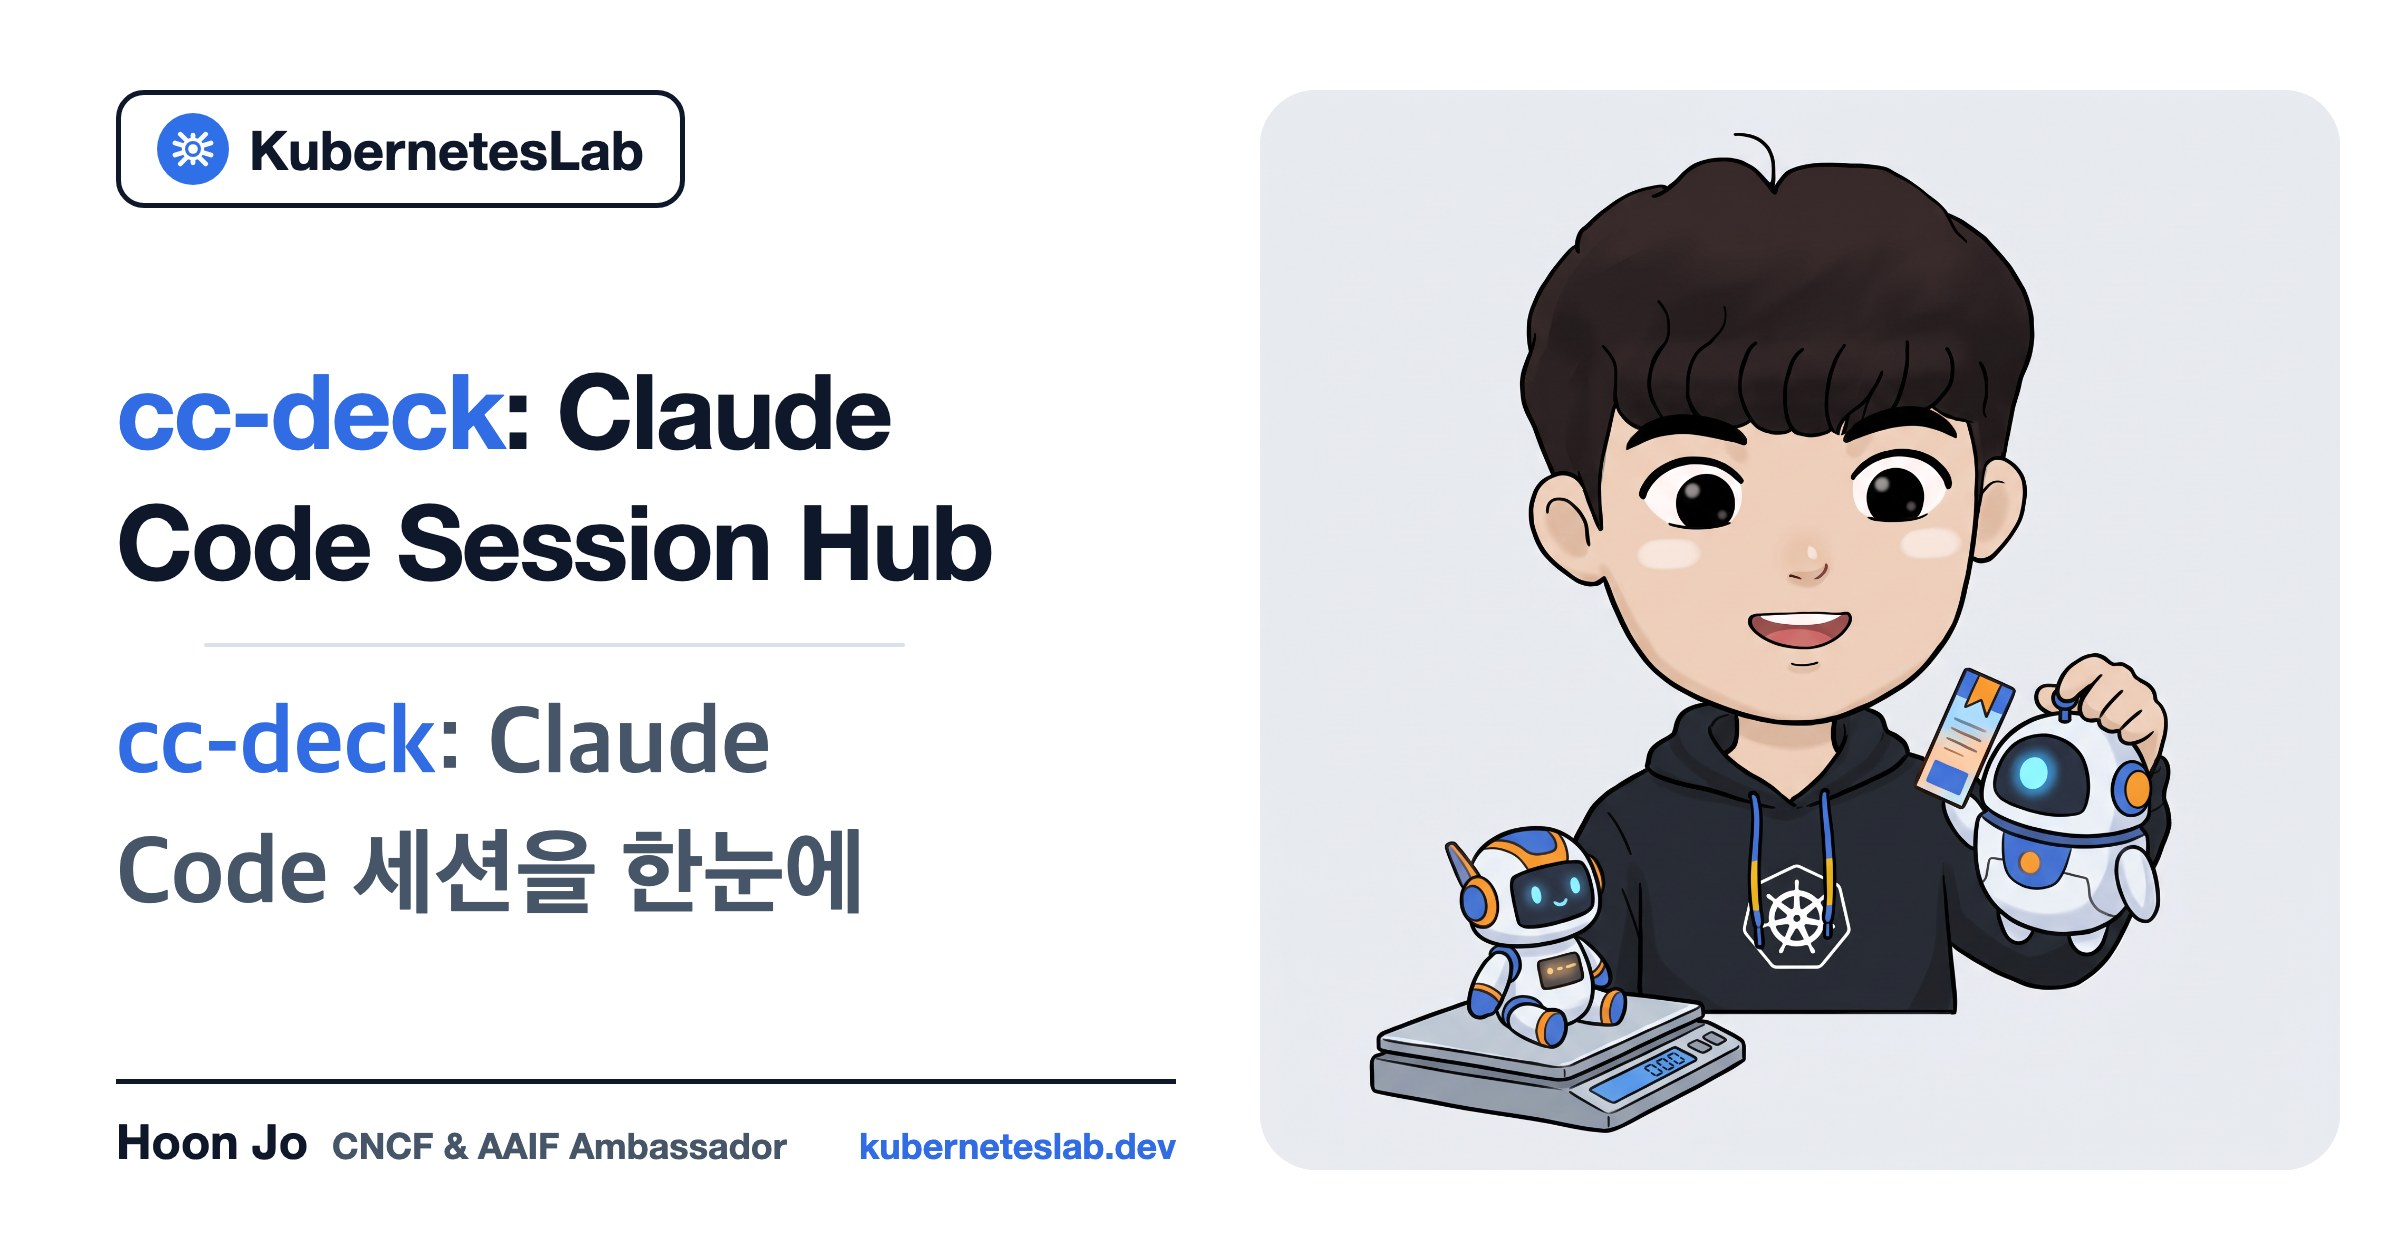
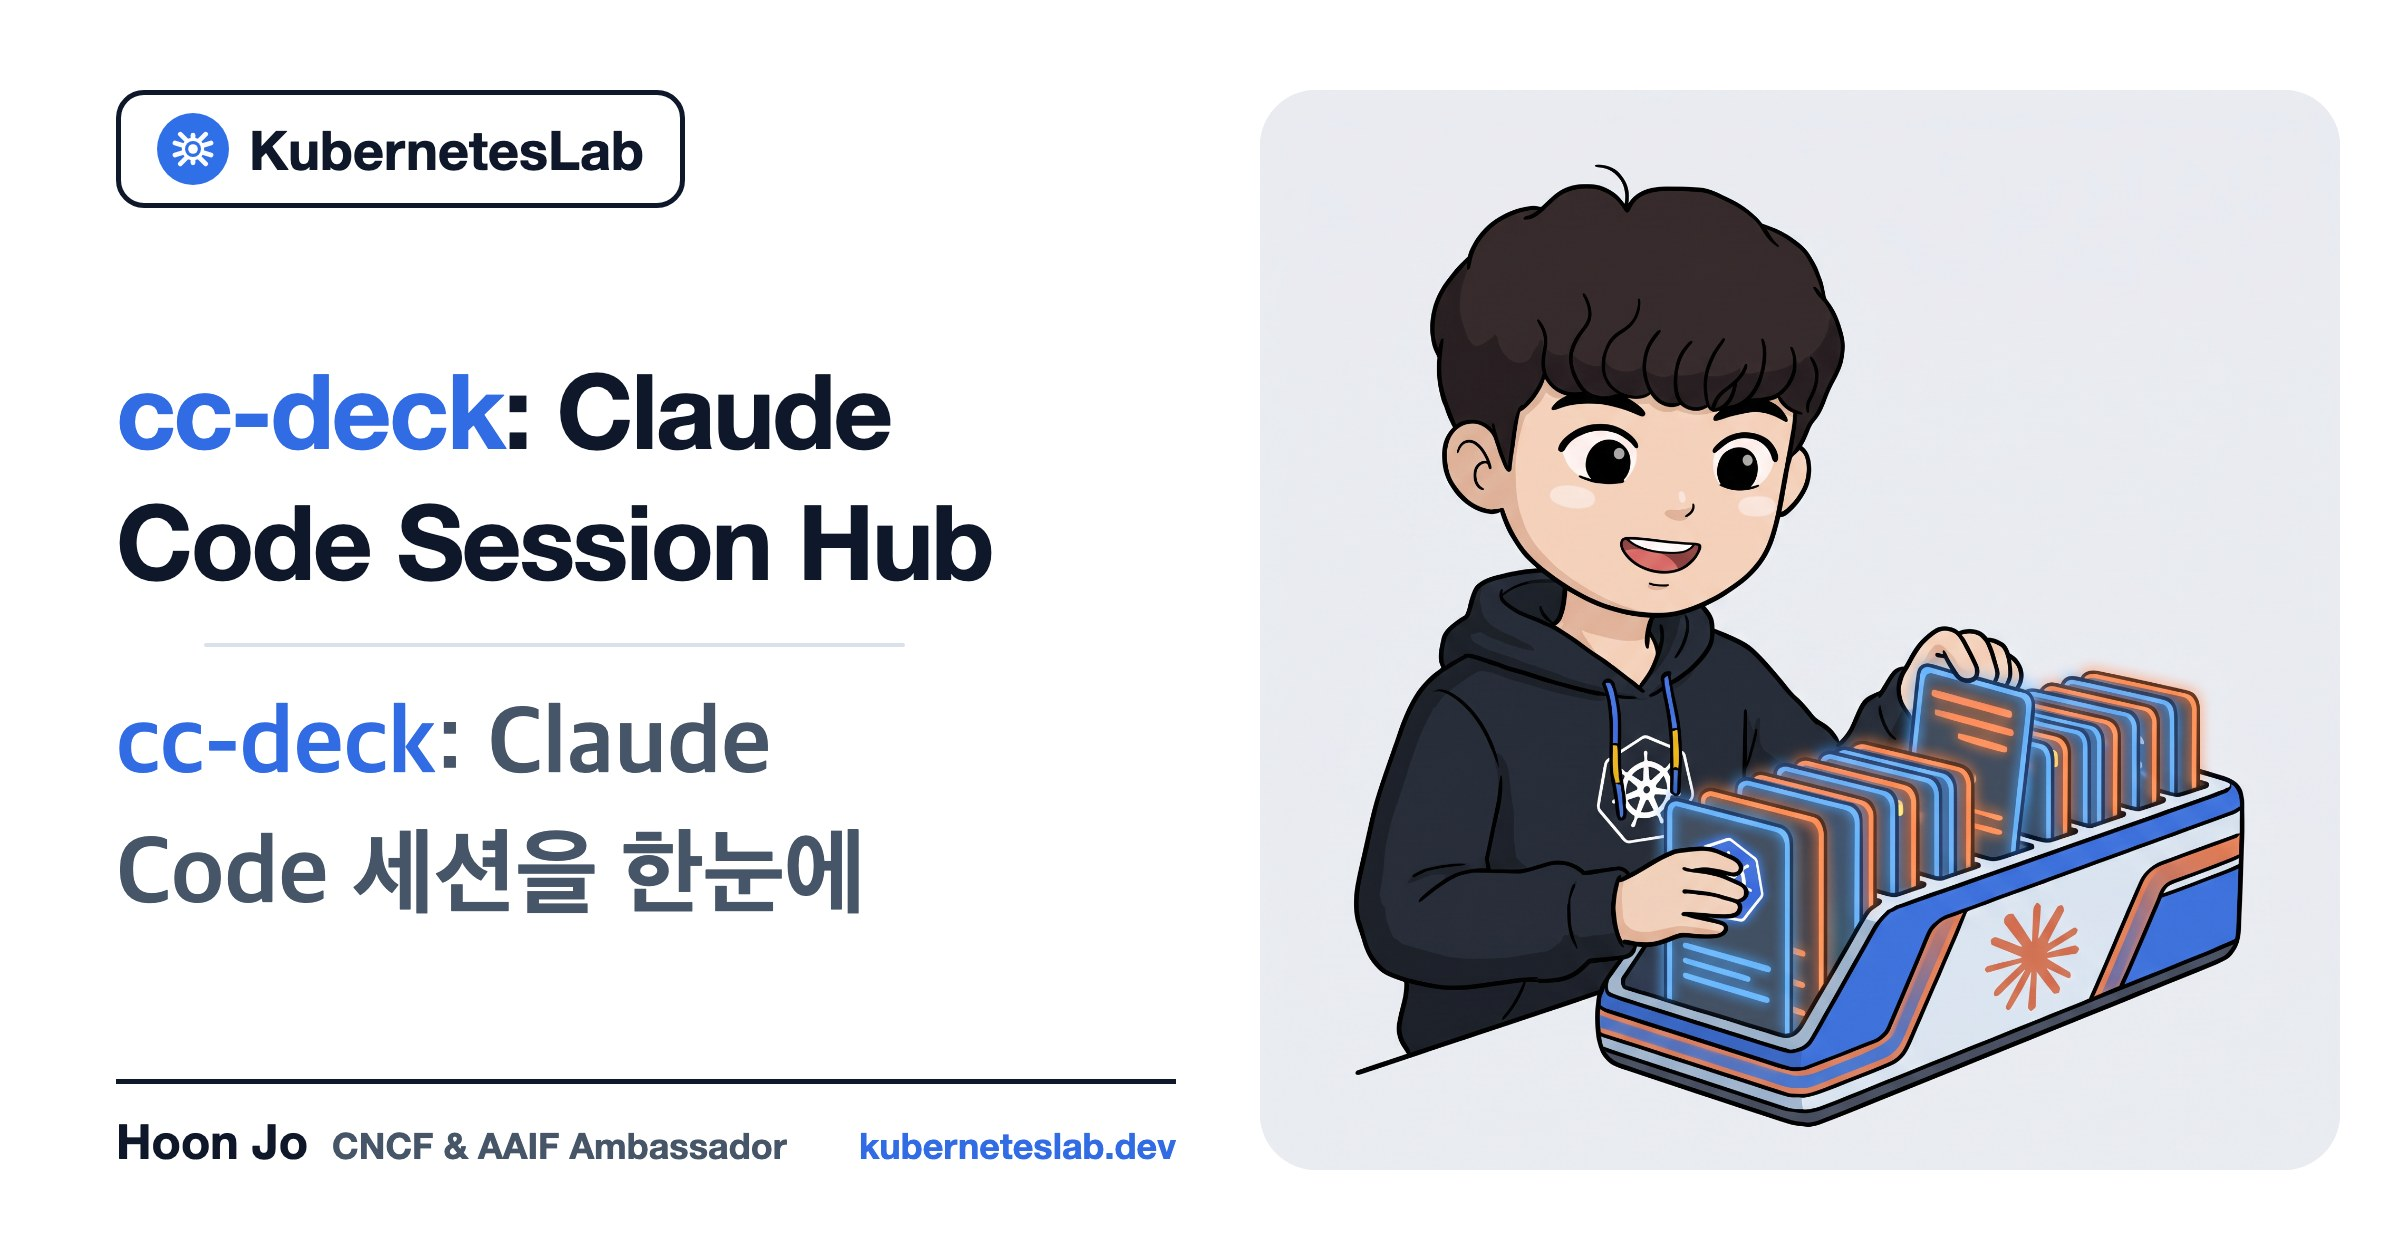
og:image: 블로그 글 16편의 캐릭터 미리보기 그림 교체와 추가
글마다 기술 로고를 소품에 넣고 제목이 말하는 관계가 보이게 다시 그렸다.
기존 7편은 그림을 바꾸고 9편은 새로 넣었다. aiops-agent-benchmark 는
결과 차트 대신 이 그림을 og:image 로 사용한다.

Changed region(s): [[0.5625, 0.1238, 0.9375, 0.8976]]

diff --git a/content/ko/blog/agent-router-mcp-gateway.md b/content/ko/blog/agent-router-mcp-gateway.md
@@ -8,6 +8,10 @@ description: "Agent Router v1.1.0을 쿠버네티스에 올려 MCP 서버 앞에
 summary: "도구 이름만이 아니라 호출할 때 넘긴 값까지 보고 허용 여부를 정할 수 있습니다. 대신 기본 배포에서는 응답이 20ms 가까이 늦어지고 처리량이 초당 100건 근처에서 더 늘지 않는데, 세션 ID를 푸는 반복 횟수 설정 1개가 그 비용의 주인이었습니다. 그리고 문서 예시 그대로 적으면 tools/list가 비어서 에이전트가 도구를 찾지 못하니 CEL을 has()로 감싸면 피할 수 있습니다."
 ShowToc: true
 TocOpen: true
+cover:
+    image: "/images/og/agent-router-mcp-gateway.jpg"
+    alt: "Agent Router로 MCP 서버를 묶으면 무엇이 달라질까요?"
+    hidden: true
 ---
 
 MCP 서버를 늘려 가다 보면 클라이언트 설정이 서버 수만큼 늘어나고 누가 어떤

diff --git a/content/en/blog/agent-router-mcp-gateway.md b/content/en/blog/agent-router-mcp-gateway.md
@@ -8,6 +8,10 @@ description: "Running Agent Router v1.1.0 on Kubernetes in front of MCP servers 
 summary: "Authorization down to call arguments really does work. It costs about 20ms per response and the default deployment tops out around 100 requests per second, and one iteration-count setting turns out to own that cost. Writing the condition the way the documentation shows leaves tools/list returning nothing, so an agent finds no tools at all: wrap the CEL in has()."
 ShowToc: true
 TocOpen: true
+cover:
+    image: "/images/og/agent-router-mcp-gateway.jpg"
+    alt: "What changes when you put Agent Router in front of your MCP servers?"
+    hidden: true
 ---
 
 Adding MCP servers one at a time means client configuration grows with the server

diff --git a/content/en/blog/mcp-stateless-migration.md b/content/en/blog/mcp-stateless-migration.md
@@ -8,6 +8,10 @@ description: "A walkthrough of migrating a session-based MCP server to the 2026-
 summary: "Porting the transport to the v2 SDK is mostly a version bump. The real migration is deciding where handle state lives, and leaving it in pod memory brings the old failure back behind an HTTP 200 that transport retries never see."
 ShowToc: true
 TocOpen: true
+cover:
+    image: "/images/og/mcp-stateless-migration.jpg"
+    alt: "Port an MCP server to the stateless spec on Kubernetes: a step-by-step migration"
+    hidden: true
 ---
 
 The MCP 2026-07-28 revision removes protocol-level sessions. The `Mcp-Session-Id`

diff --git a/content/ko/blog/aiops-agent-benchmark.md b/content/ko/blog/aiops-agent-benchmark.md
@@ -9,8 +9,8 @@ summary: "9개 에이전트를 같은 조건에서 10개 K8s 장애 시나리오
 ShowToc: true
 TocOpen: true
 cover:
-    image: "/images/aiops-tier-comparison-ko-by-efficiency.png"
-    alt: "AIOps Agent Benchmark: 처리속도 vs Ops_Score 점도표 (9개 에이전트)"
+    image: "/images/og/aiops-agent-benchmark.jpg"
+    alt: "Claude / Gemini / Codex CLI 에이전트는 K8s 장애를 얼마나 잘 다룰까? (AIOps Agent Benchmark)"
     hidden: true
 images:
     - /images/aiops-tier-comparison-ko-by-efficiency.png

diff --git a/content/en/blog/gateway-api-poc-v1.4.md b/content/en/blog/gateway-api-poc-v1.4.md
@@ -8,6 +8,10 @@ description: "After Ingress NGINX retired, which Gateway API should you move to?
 summary: "We rebuilt last year's Gateway API PoC from the scoring model up and re-measured 7 implementations. All 7 pass official conformance, but the features you can actually use range from 6 to 13."
 ShowToc: true
 TocOpen: true
+cover:
+    image: "/images/og/gateway-api-poc-v1.4.jpg"
+    alt: "Passing Conformance Isn't Enough: Re-scoring 7 Gateway API Implementations from Scratch"
+    hidden: true
 ---
 
 ## Why Measure Again

diff --git a/content/en/blog/aiops-agent-benchmark.md b/content/en/blog/aiops-agent-benchmark.md
@@ -9,8 +9,8 @@ summary: "Putting nine agents through ten Kubernetes incident scenarios under id
 ShowToc: true
 TocOpen: true
 cover:
-    image: "/images/aiops-tier-comparison-by-efficiency.png"
-    alt: "AIOps Agent Benchmark: Processing Efficiency vs Ops_Score (9 agents)"
+    image: "/images/og/aiops-agent-benchmark.jpg"
+    alt: "How well do Claude / Gemini / Codex CLI agents handle Kubernetes incidents? (AIOps Agent Benchmark)"
     hidden: true
 images:
     - /images/aiops-tier-comparison-by-efficiency.png

diff --git a/content/ko/blog/gateway-api-poc.md b/content/ko/blog/gateway-api-poc.md
@@ -8,6 +8,10 @@ description: "Ingress NGINX 사용 중단을 앞두고 NGINX Gateway Fabric, Env
 summary: "7개 Kubernetes Gateway API 구현체를 17개 테스트로 100라운드 검증한 PoC 결과와 상황별 선택 가이드"
 ShowToc: true
 TocOpen: true
+cover:
+    image: "/images/og/gateway-api-poc.jpg"
+    alt: "Kubernetes Gateway API 7개 구현체 PoC 비교: 어떤 걸 선택해야 할까?"
+    hidden: true
 ---
 
 ## Ingress NGINX가 사용 중단됩니다

diff --git a/content/en/blog/gateway-api-poc.md b/content/en/blog/gateway-api-poc.md
@@ -8,6 +8,10 @@ description: "We tested 7 Gateway API implementations (NGINX Gateway Fabric, Env
 summary: "100-round PoC results and selection guide for 7 Kubernetes Gateway API implementations across 17 test scenarios"
 ShowToc: true
 TocOpen: true
+cover:
+    image: "/images/og/gateway-api-poc.jpg"
+    alt: "Comparing 7 Kubernetes Gateway API Implementations: Which One Should You Choose?"
+    hidden: true
 ---
 
 ## Ingress NGINX Is Retiring

diff --git a/content/ko/blog/k8s-large-cluster-cost-optimization.md b/content/ko/blog/k8s-large-cluster-cost-optimization.md
@@ -9,6 +9,10 @@ summary: "월 ~$3,240, 연 ~$38,880 절감(~49%). EKS 1.32/1.33을 1.35로, Argo
 ShowToc: true
 TocOpen: true
 mermaid: true
+cover:
+    image: "/images/og/k8s-large-cluster-cost-optimization.jpg"
+    alt: "대규모 EKS 클러스터 비용 49% 절감기: V1 폐기와 V2 재구축으로 청산한 인프라 부채"
+    hidden: true
 ---
 
 > **작업 시점** · 2026년 1분기  

diff --git a/content/en/blog/k8s-large-cluster-cost-optimization.md b/content/en/blog/k8s-large-cluster-cost-optimization.md
@@ -9,6 +9,10 @@ summary: "~$3,240/month, ~$38,880/year saved (~49%). Consolidated EKS 1.32/1.33 
 ShowToc: true
 TocOpen: true
 mermaid: true
+cover:
+    image: "/images/og/k8s-large-cluster-cost-optimization.jpg"
+    alt: "49% Cost Reduction on a Large EKS Cluster: Clearing Infrastructure Debt by Decommissioning V1 and Rebuilding V2"
+    hidden: true
 ---
 
 > **Timeline** · Q1 2026  
